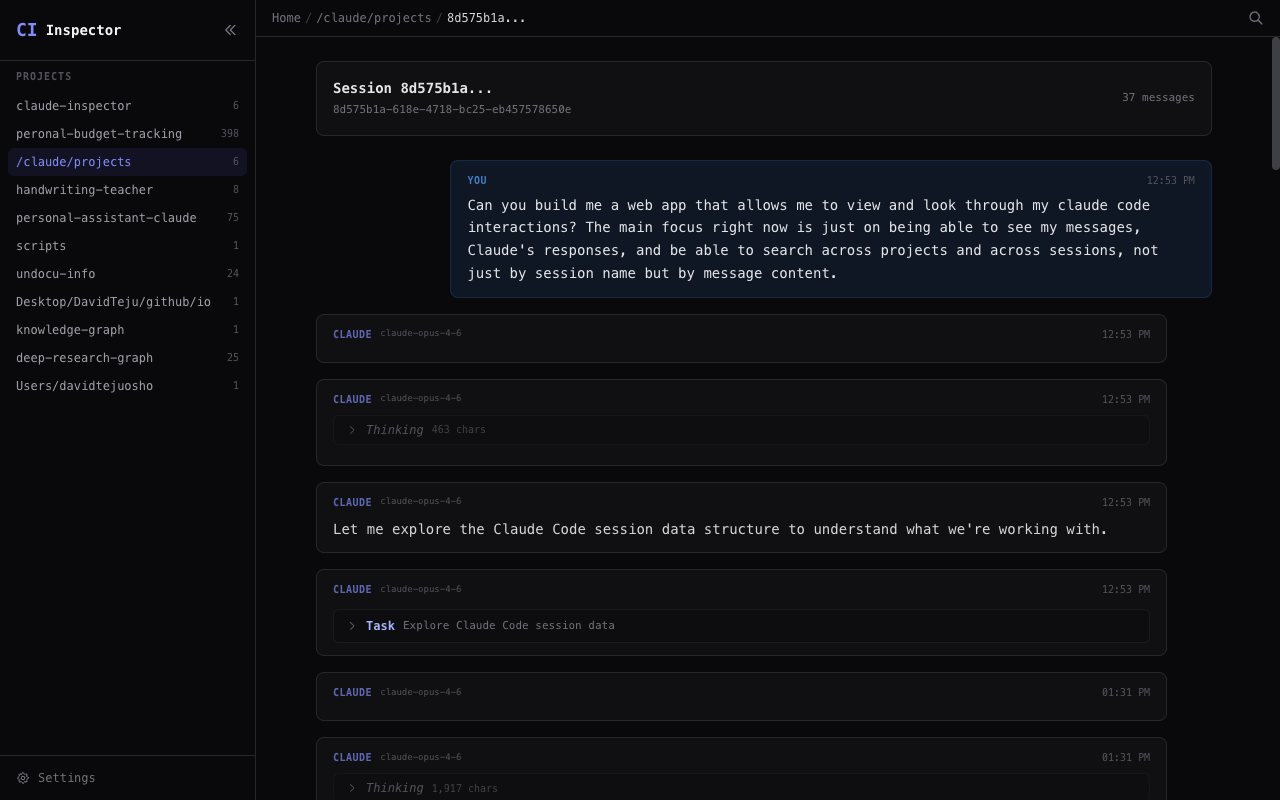
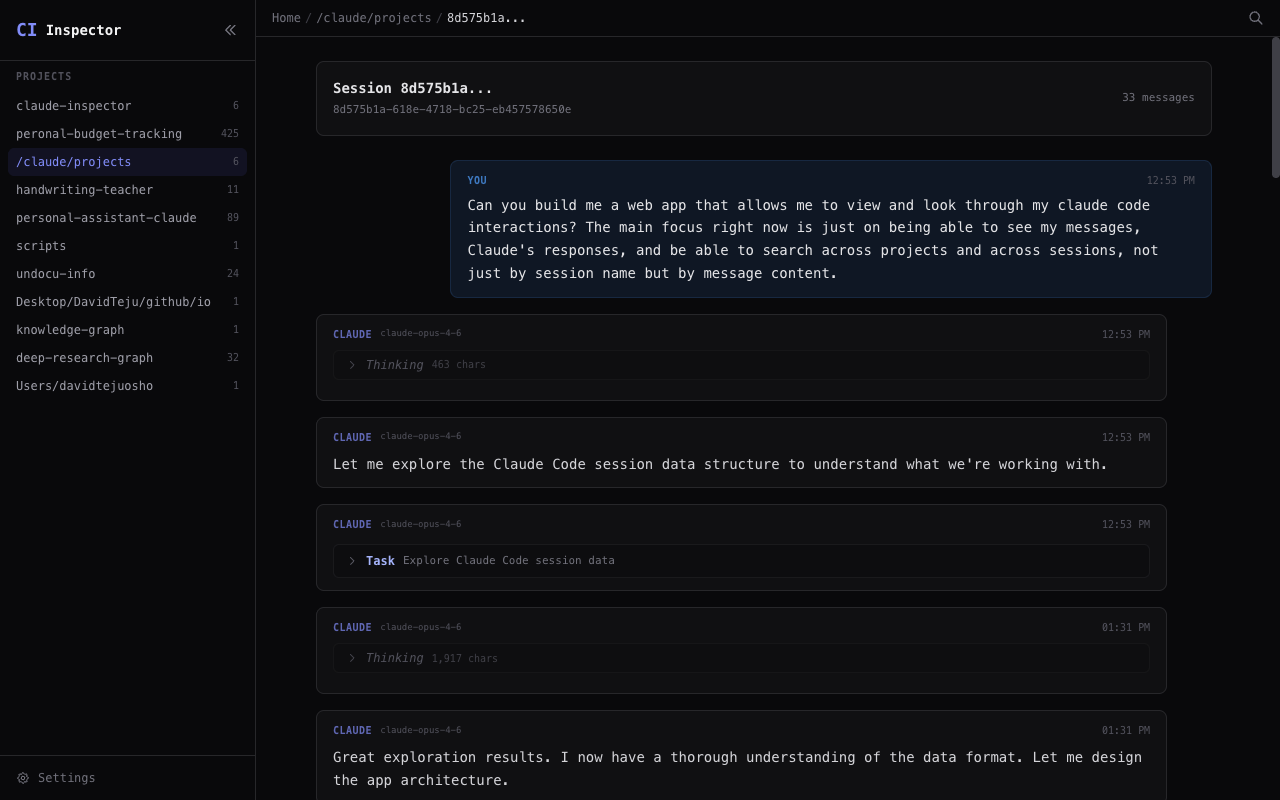
Filter out empty assistant messages in session viewer
Assistant messages with only whitespace text and no tool calls or
thinking blocks were rendering as empty boxes with just a header.
These are emitted by Claude Code as separator records. Now trimmed
and skipped during JSONL parsing.

diff --git a/src/lib/server/messages.ts b/src/lib/server/messages.ts
@@ -141,11 +141,16 @@ export async function parseSessionMessages(filePath: string): Promise<ThreadMess
 				textParts.push(content);
 			}
 
+			const textContent = textParts.join('\n').trim();
+
+			// Skip empty assistant messages (whitespace-only text, no tool calls, no thinking)
+			if (!textContent && toolCalls.length === 0 && thinkingBlocks.length === 0) continue;
+
 			messages.push({
 				uuid: record.uuid,
 				role: 'assistant',
 				timestamp: record.timestamp,
-				textContent: textParts.join('\n'),
+				textContent,
 				toolCalls,
 				toolResults: new Map(),
 				thinkingBlocks,
